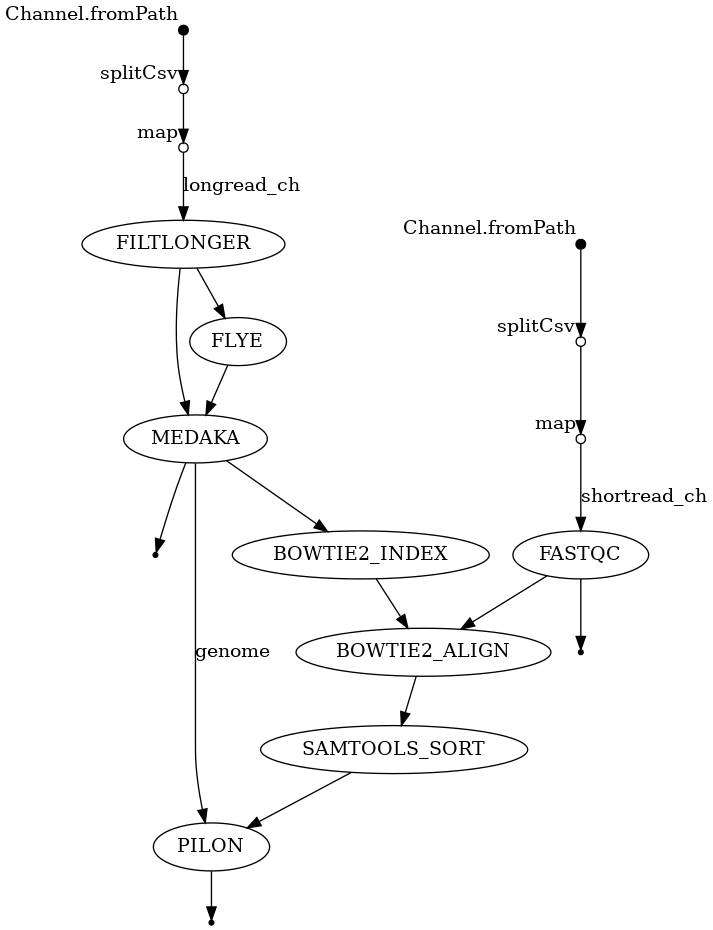
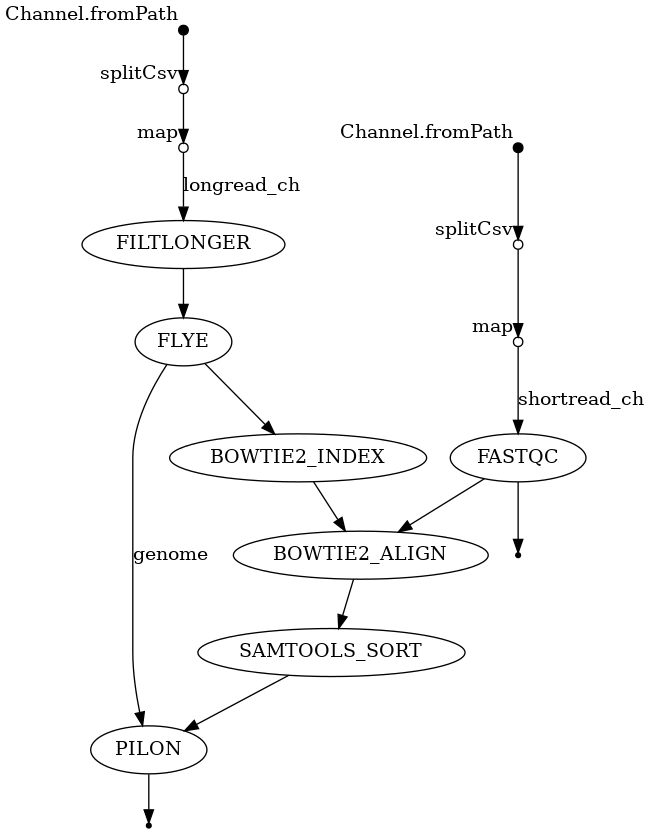
project description updates

diff --git a/_projects/project_1_genome_assembly.md b/_projects/project_1_genome_assembly.md
@@ -251,11 +251,10 @@ This modularity will have the secondary benefit of making it easier to reuse
 components of the pipeline in future projects or even share it with others. 
 
 From a bioinformatics standpoint, this week we will add several steps to our
-pipeline. We will polish the assembly we created last week with our long reads and
-our short Illumina reads. Long read polishing will require the assembly as well
-as the long reads. In order to polish with the Illumina reads, we will first 
-need to align the illumina reads to the draft assembly using bowtie2. We can then
-provide the aligned reads to Pilon to polish the assembly. 
+pipeline. We will polish the assembly we created last week with our Illumina reads.
+In order to do this, we will first need to align the illumina reads to the draft
+assembly using bowtie2. We can then provide the aligned reads to Pilon to polish
+the assembly. 
 
 ## Relevant Resources
 
@@ -314,7 +313,7 @@ that code largely in the modules/ directory. We now import our processes into
 the week2.nf script to make them available using the `include` keyword. You can 
 think of this as akin to when you import a library in python. 
 
-1. Take the code for the processes MEDAKA, BOWTIE2_INDEX, BOWTIE2_ALIGN, SAMTOOLS_SORT,
+1. Take the code for the processes BOWTIE2_INDEX, BOWTIE2_ALIGN, SAMTOOLS_SORT,
 and PILON found in the week2.nf and split them out into modules the 
 way I have already done for you with last week's code. You should remove this
 code from the `week2.nf` file and place it in the appropriate module. When finished,
@@ -396,6 +395,12 @@ add the right flag to each command to make use of the resources requested. You
 will need to use the `$task.cpus` variable in nextflow to automatically fill in
 the number of cpus requested for the selected label in the command as well as find
 the right flag to use for each tool. 
+
+- Certain processes like building an index or aligning reads to the reference benefit
+greatly from using multiple threads / cores. You can choose to use a higher number
+of threads / cores for these processes if you have the resources available and it
+will greatly speed up the process. You may choose to use a greater number of threads
+for these processes even if you don't technically need more memory reserved.  
 
 - Some tools may not be able to use multiple threads / cores, but you should still
 use the provided report to specify an appropriate label so that your job properly
